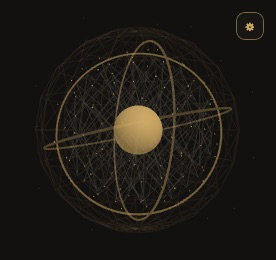
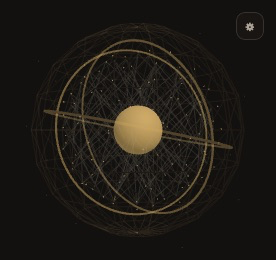
docs: refresh the installed-app UI capture with the 2026-09-22 Computer Use cross-check

diff --git a/docs/architecture/unit5-live-proofs.md b/docs/architecture/unit5-live-proofs.md
@@ -1195,3 +1195,22 @@ OK
 - 직전 ANN 저장소는 `knowledge-dense-ann.sqlite3`(00:51, 2,940,928 bytes)이다. `/tmp` 격리 복사본에서 `dense_vectors` 50 · `ann_buckets` 400 · `dense_meta` `bge-m3-lsh-v1`·watermark 1790005898을 읽어, dense 재색인이 실패한 뒤에도 직전 색인이 남아 있음을 확인했다.
 - 이 절이 닫지 않는 것: 이번 측정은 BM25·그래프 상태와 dense의 현재 실패만 보여준다. dense 하이브리드 검색(`search_mode "rrf"`)은 00:51 기록이며 이번에 재현하지 않았고, endpoint가 응답하지 않는 동안 검색은 `bm25_only`다. `stale` true는 원본 대비 색인이 오래됐다는 뜻이며 이번 절에서 원인을 분해하지 않았다.
 - 관측(정정 기록): 상태 action 자체는 read-only지만, 이 절의 확인 과정에서 `sqlite3`로 dense 저장소를 직접 열었을 때 SQLite가 0바이트 `knowledge-dense-ann.sqlite3-wal`과 32,768바이트 `-shm`을 만들었다. 본 DB 파일(2,940,928 bytes, 00:51)은 바뀌지 않았고, 그 뒤 dense 확인은 `/tmp`로 복사한 사본에서만 수행했다. 앱 데이터 디렉터리에는 그 두 파일이 남아 있으며 삭제하지 않았다.
+
+### 설치본 UI Computer Use 재크로스체크 — 2026-09-22 KST
+
+2026-09-22 03:47 KST에 설치본 /Applications/OpenKakao Jarvis.app을 Computer Use(cua_repl)로 다시 확인했다. 설치 번들은 00:51:21 이후 변경되지 않았고 앱 pid는 84125(01:44:30 시작)다. 이번 확인에서 재빌드·재설치·재색인·전송은 실행하지 않았다.
+
+- 상태 항목을 CGEvent 클릭으로 열고 cua.getApp("OpenKakao Jarvis.app")로 붙어 AX 트리를 받았다. 트리는 0 standard window → 1 scroll area → 2 HTML content(URL tauri://localhost) → 3 container Jarvis → 4 image Jarvis core + 5 button 설정 열기 였다. 패널 창의 조작 요소는 톱니바퀴 버튼 1개뿐이다.
+- 패널 캡처(276x260, docs/architecture/jarvis-live-panel.png, 이번에 갱신)에서 웜 블랙 배경, 샴페인 골드 구체 코어, 다중 동심원 짐벌 링, 얇은 시냅스 선, 작은 입자가 관측됐다. bloom 후처리·발광 텍스트·네온은 없었다.
+- 5 button 설정 열기 클릭은 별도 창 Jarvis 설정(760x760, tauri://localhost/index.html?view=settings)을 연다. 03:47:09 캡처로 docs/architecture/jarvis-live-settings.png를 760x760으로 갱신했다. 이 창에 있는 섹션은 아래가 전부다.
+  - 대상 채팅방: pop up button 대상 채팅방(NIMDA 인수인계 임원방) · 등록 3 · live 3 · 본문 미전달
+  - AI 모델: 온디바이스 · Flash-Next 토글 on(기본 상주) · Qwen3.8 27B 토글 off(온디맨드 스왑 · 미로딩) · 현재 선택 ddalcu/Qwen3.8-Flash-Next-MLX-Serve-mixed-4-8bit · 외부 소유 · 27B 전환 차단 · 외부 런타임이 11234 포트를 점유 중 · 앱은 시작/중지하지 않습니다 · 온디바이스 감지 Apple M5 Max (128GB RAM) · MLX Core/Serve · Qwen3.8 Flash-Next · 설정 검증 통과 · 실추론 통과 (Qwen3.8 Flash-Next)
+  - Voice: 로컬 전용 · 상태 wake_listen · wake none · RMS 0.000 · 호출어 헤이 자비스 · 임계값 0.65 고정 · 한국어 커스텀 헤드 bundled ONNX 선택됨(TTS 보정, 사람 음성 일반화 아님) · 마이크 세션 시작 버튼
+  - 카카오 DB 동기화 · 색인: GraphRAG 준비 · 동기화 stale · 백그라운드 · 답변 대기 0 · 긱뉴스 idle · DB 동기화 stalled · 격리 복제 copy_ok · 색인 모드 wal+isolated-copy+mode=ro+query_only · 마지막 색인 1790005905 · indexed 31 · dense indexed:50 · indexed_at 1790005911
+  - DREAM-RSI: 체크포인트 provenance · status evaluated · selected_policy mirror_prompt_tail · gold_rows 400 · gold_source_policy human_only
+  - Knowledge: GraphRAG · stale · E-R-E 50 nodes · 341 relations · 화면 최대 24 nodes · 홀로그램 그래프 이미지 · +1 hop 버튼(비활성) · GeekNews 슬롯(아침 대기 · 점심 대기 · 저녁 대기)
+  - History: 안전 요약 · 최근 12건 · 본문·프롬프트 제외
+- 대량 검증·기능 점검·권한 관리 화면은 이 창에 없고 설치본에서 노출되지 않는다.
+- 설정 창의 close button을 누른 뒤 앱은 창 0개 · isRunning true(app id com.openkakao.jarvis.desktop)였고 pid 84125는 살아 있었다. 이 리비전도 포커스 상실·닫기에서 패널을 hide하고 프로세스를 유지한다.
+- 캡처 출처: 이번 PNG는 screencapture 대신 CUA 서비스가 자체 저장한 캡처(임시 디렉터리 com.openai.sky.CUAService, 03:47:04 · 03:47:09 JPEG)를 sips로 PNG 변환해 기록했다. 이 호스트 세션에서 screencapture -l windowID는 30초 안에 끝나지 않아 중단했다(호스트 프로세스에 화면 기록 권한 없음). 갱신한 PNG SHA-256은 jarvis-live-panel.png 0cedac6cc227464b06ae1801cfb386c97630b883714f0ecd7876fe6ed9c60903, jarvis-live-settings.png eac575b0b316398c636b6da171dd2853de86ff1bacd75de649efd6fa5c77532b이다.
+- 이 절의 한계: 이번 확인은 AX 트리·렌더 픽셀·창 생명주기에 대한 것이다. live 모델 생성, dense 재색인, 실제 카카오톡 전송을 입증하지 않는다. 설정 화면의 dense indexed:50 · indexed_at 1790005911과 마지막 색인 값은 00:51 성공 시점의 영속 상태를 읽은 것이며 이번에 재측정한 값이 아니다.

diff --git a/README.md b/README.md
@@ -127,6 +127,7 @@ The diagrams are architectural references, not a live generation trace. On-devic
 - dense/RRF가 설치 앱 자신의 그래프에서 동작함을 처음 확인했다. 2026-09-22 KST에 설치본이 dense 기본 endpoint로 닫힌 `127.0.0.1:8000`을 호출해 `last_dense_status`가 계속 `unavailable`로 남는 결함을 찾아, 기본값을 앱 자신의 로컬 MLX 게이트웨이(`scripts/local_mlx_gateway.py`, `http://127.0.0.1:11234/v1/embeddings`)로 정렬하고(commit `5fcf47b`) 새 모듈을 번들 resource allowlist에 등록했다. 이어서 게이트웨이가 생성 작업과 겹칠 때 singleton 요청도 4.0초 예산을 넘는 실패를 실측하고, 재색인 1회의 첫 HTTP 시도에만 30.0초를 허용하도록 고쳤다(commit `d2948e3`). 재빌드·재설치 뒤 설치 번들의 `auto_reply_knowledge_graph.py`를 앱의 provisioned menubar 런타임으로 `--reindex-once` 실행해 exit 0(11초)을 확인했고, 앱 자신의 상태 action은 `dense_status "indexed:50"`·`dense_indexed_at 1790005911`·`stale false`·`snapshot_status "copy_ok"`를 반환했다. 앱 상태 root의 그래프는 `kg_entities` 50·`kg_relations` 341, dense 저장소는 `dense_vectors` 50·`ann_buckets` 400이다. 같은 설치 모듈로 네 개 한국어 질의가 모두 `search_mode "rrf"`였다(candidate 24–40, entities 7–13, relations 3). 검증은 `tests.test_auto_reply_knowledge_graph` **72 tests, OK**, 11개 모듈 합계 **474 tests, OK**, Vitest **78/78**, Rust **59/59**였다. 동시 실행으로 ANN DB 잠금(`unavailable:OperationalError:database is locked`)이 한 번 발생했고 fail-closed로 닫혔으며, 앱 경로의 재색인 가드와 달리 독립 `--reindex-once`에는 그 가드가 없으므로 앱 재색인이 진행 중이 아닐 때만 실행해야 한다.
 
 - 재설치가 중복 인스턴스를 남기는 결함을 찾아 가드를 넣었다(commit `f2f1a77`). 2026-09-22 KST에 `openkakao-jarvis-desktop`이 두 개 실행 중이었다: pid 18028은 00:34:21 재설치가 만든 이전 번들 백업 경로(`/Applications/.openkakao-jarvis.previous.20260922T003421.52158.app`, 설치 스크립트가 이미 `rm -rf`로 삭제)에서 lsof 기준으로 계속 실행 중이었고, pid 98353이 LaunchAgent가 추적하는 새 인스턴스다. `scripts/install-jarvis-desktop.sh`는 `launchctl bootout` 뒤 `wait_for_absent`로 **서비스**만 확인하고 남은 **프로세스**는 확인하지 않은 채 이전 번들을 지운다. 그래서 bootout을 벗어난 인스턴스가 삭제된 번들에서 살아남아 메뉴바 아이템·폴러를 중복시키고, 같은 state root를 두 인스턴스가 색인하면 관측된 `unavailable:OperationalError:database is locked`가 재현될 수 있다. 이 세션은 프로세스를 종료하지 않았으므로 계획의 전환 조건(중복 작업자 없음)은 이 호스트에서 아직 충족되지 않았다. 수정은 bootstrap 뒤 launchd pid를 유계 대기로 얻고, 살아 있는 앱 프로세스에서 그 pid와 자기 pid를 떼 나머지를 stray로 보아 있으면 이전 번들을 지우지 않고 exit 3으로 닫는 것이다. 판정은 경로가 아니라 pid 동일성이며, 삭제된 번들에서 실행 중인 프로세스에 대해서도 macOS `ps`는 exec 시점의 argv 경로를 그대로 보여주기 때문이다. 같은 날짜 CUA 크로스 체크(앱 등록·`isRunning true`·창 0개에서 `-10005 timeoutReached` 재현)와 프로세스 표는 `docs/architecture/unit5-live-proofs.md`에 있다.
+- 설치본 UI를 2026-09-22 03:47 KST에 Computer Use로 다시 크로스체크했다. 설치 번들은 00:51:21 이후 변경 없음이고 앱 pid는 84125다. 메뉴바 패널 AX 트리는 0 standard window → 1 scroll area → 2 HTML content(tauri://localhost) → 3 container Jarvis → 4 image Jarvis core + 5 button 설정 열기 이고 조작 요소는 톱니바퀴 1개뿐이며, 설정 창(760x760)은 대상 채팅방·AI 모델·Voice·카카오 DB 동기화·색인·DREAM-RSI·Knowledge·GeekNews 슬롯·History만 담는다. 설정 창을 닫은 뒤 앱은 창 0개·isRunning true였고 pid 84125는 살아 있었다. [jarvis-live-panel.png](docs/architecture/jarvis-live-panel.png)와 [jarvis-live-settings.png](docs/architecture/jarvis-live-settings.png)는 이번 캡처로 갱신했다(SHA-256 0cedac6c… · eac575b0…). 이 증거는 UI 렌더·창 생명주기에 대한 것이며 live model generation이나 live KakaoTalk 전송을 입증하지 않는다.
 
 - 중복 인스턴스 가드를 넣고 CI 회귀도 함께 고쳤다. `scripts/install-jarvis-desktop.sh`가 이제 `wait_for_pid`(10회, 0.5초 간격으로 `launchctl print` 재실행)로 새 launchd pid를 얻은 뒤, 살아 있는 앱 프로세스에서 그 pid와 자기 pid를 떼 stray가 남아 있으면 이전 번들을 삭제하지 않고 exit 3으로 닫는다(commit `f2f1a77`). 판정은 pid 동일성이고 경로는 lsof/ps 진단 문구로만 쓴다. `tests.test_jarvis_desktop_launchers`는 **10 tests, OK**(기존 6 + 신규 4: 소스 계약, 가짜 어댑터 stray 없음/있음, pid 경합 뒤 정상, pid 미보고 시 유지)이고 `/bin/sh -n`도 통과한다.
 
